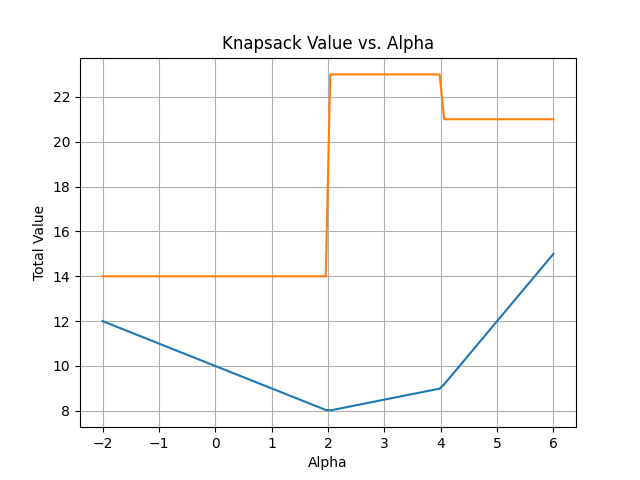
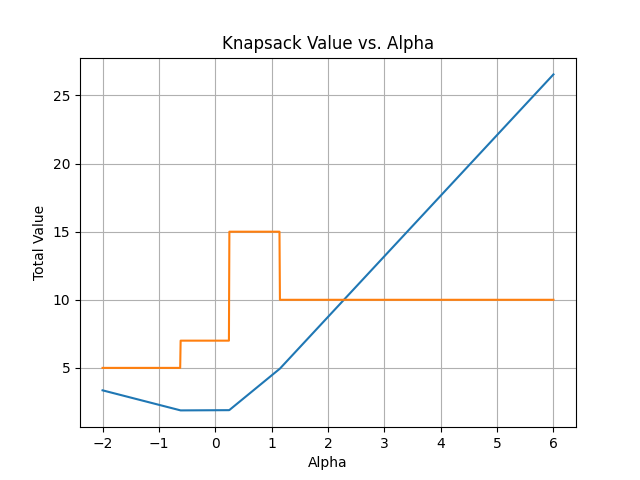
Made the dynamic programming work with generated data from pyepo

diff --git a/dp/dynamic.py b/dp/dynamic.py
@@ -1,0 +1,59 @@
+import pyepo
+import matplotlib
+import numpy as np
+from matplotlib import pyplot as plt
+from matplotlib import colormaps
+
+
+# generate data for 2D knapsack
+m = 4 # number of items
+n = 1 # number of data????????????????????????????
+p = 2 * m # size of feature
+deg = 6 # polynomial degree
+dim = 1 # dimension of knapsack
+noise_width = 0.5 # noise half-width
+caps = [20] * dim # capacity
+weights, x, c = pyepo.data.knapsack.genData(n, p, m, deg=deg, dim=dim, noise_width=noise_width, seed=32)
+x = x.reshape((m, -1))
+
+capacity = caps[0]
+
+
+def calculate_value(x, alpha):
+    return x[0] * alpha + x[1]
+
+
+def knapsack(weights, x, c, alpha):
+    n = x.shape[0]
+    # Initialize DP table
+    dp = np.zeros((n + 1, capacity + 1))
+    val = np.zeros((n + 1, capacity + 1))
+    int_weights = np.ceil(weights).astype('int')
+    for i in range(1, n + 1):
+        for w in range(capacity + 1):
+            if weights[i - 1] <= w:
+                dp[i][w] = max(dp[i - 1][w],
+                               dp[i - 1][w - int_weights[i - 1]] + calculate_value(x[i - 1], alpha))
+                if dp[i - 1][w] > dp[i - 1][w - int_weights[i - 1]] + calculate_value(x[i - 1], alpha):
+                    val[i][w] = val[i - 1][w]
+                else:
+                    val[i][w] = val[i - 1][w - int_weights[i - 1]] + c[i - 1]
+            else:
+                dp[i][w] = dp[i - 1][w]
+                val[i][w] = val[i - 1][w]
+
+    return dp[n][capacity], val[n][capacity]
+
+
+# Vary alpha and collect results
+alphas = np.linspace(-2, 6, 1000)
+values = [knapsack(weights[0], x, c[0], alpha)[0] for alpha in alphas]
+true_values = [knapsack(weights[0], x, c[0], alpha)[1] for alpha in alphas]
+# Plot the results
+plt.plot(alphas, values)
+plt.plot(alphas, true_values)
+plt.xlabel("Alpha")
+plt.ylabel("Total Value")
+plt.title("Knapsack Value vs. Alpha")
+plt.grid(True)
+plt.savefig("knapsack_value_vs_alpha.png")
